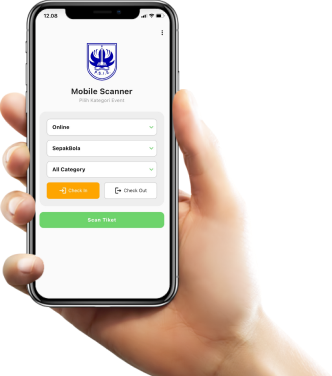
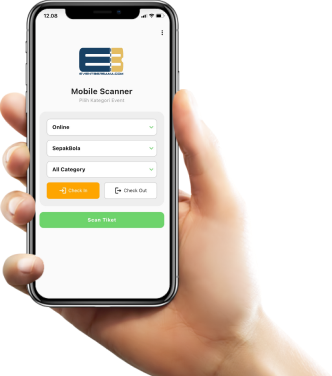
fix tampilan dan aset

Changed region(s): [[0.241, 0.117, 0.3916, 0.234]]

diff --git a/public/landing/css/style.css b/public/landing/css/style.css
@@ -413,16 +413,13 @@ h6 {
 
 #hero {
     width: 100%;
-    height: 70vh;
+    padding-top: 80px;
     background: url(/bg_main.png);
     position: relative;
     background-size: contain;
     background-position: right;
     background-repeat: no-repeat;
-}
-
-#hero .container {
-    padding-top: 153px;
+    padding-bottom: 0;
 }
 
 #hero h1 {
@@ -2403,6 +2400,7 @@ START EVENT
     letter-spacing: -0.02em;
     color: #FFFFFF;
     margin-top: 12px;
+    padding: 0 100px;
 }
 
 
@@ -2559,6 +2557,9 @@ iframe {
     }
     #hero .container {
         padding-top: 0px;
+    }
+    #header-image .wrapper-text h5 {
+        padding: 0 16px;
     }
     #header-image {
         margin-top: 105px;

diff --git a/resources/views/landing/sistem.blade.php b/resources/views/landing/sistem.blade.php
@@ -73,13 +73,13 @@
 					</div>
 				</div>
 				<div class="row content security mt-4 mb-4 pb-4 pt-4">
-					<div class="col-lg-7 col-sm-12">
+					<div class="col-lg-6 col-sm-12">
 						<img src="{{ asset('img/sistem/sistem_4.png') }}" alt="Dashboard" style="max-width: 100%">
 					</div>
-					<div class="col-lg-5 col-sm-12">
+					<div class="align-self-center col-lg-6 col-sm-12">
 						<h2 class="p-0 text-lg-start text-sm-center">Security CCTV Event
 						</h2>
-						<h5 class="p-0 text-lg-start text-sm-center">Membantu meningkatkan pengalaman peserta acara dengan memantau
+						<h5 class="p-0 text-lg-start text-sm-center pt-3">Membantu meningkatkan pengalaman peserta acara dengan memantau
 							keramaian dan antrean di lokasi acara. Hal ini
 							dapat membantu penyelenggara acara untuk mengatur lalu lintas dan memastikan bahwa peserta acara dapat mengakses
 							fasilitas dan layanan dengan mudah dan aman.

diff --git a/resources/views/landing/index.blade.php b/resources/views/landing/index.blade.php
@@ -25,12 +25,12 @@
 
 
 		<!-- ======= About Us Section ======= -->
-		<section id="about" class="about">
+		<section id="about" class="about p-0">
 			<div class="container" data-aos="fade-up">
 				<h3>{{ config('config_page.wording_about_h3') }}</h3>
 
 				<div class="row content">
-					<div class="col-lg-12 p-4">
+					<div class="col-lg-12 p-4 pt-0">
 						<h2>Layanan BMK untuk solusi semua</h2>
 						<h5 class="text-center">Maksimalkan bisnis anda dengan solusi terbaik dari BMK</h5>
 					</div>
@@ -38,7 +38,7 @@
 
 			</div>
 		</section><!-- End About Us Section -->
-		<section id="about" class="about">
+		<section id="about" class="about p-0">
 			<div class="container" data-aos="fade-up">
 
 				<div class="row gy-4">
